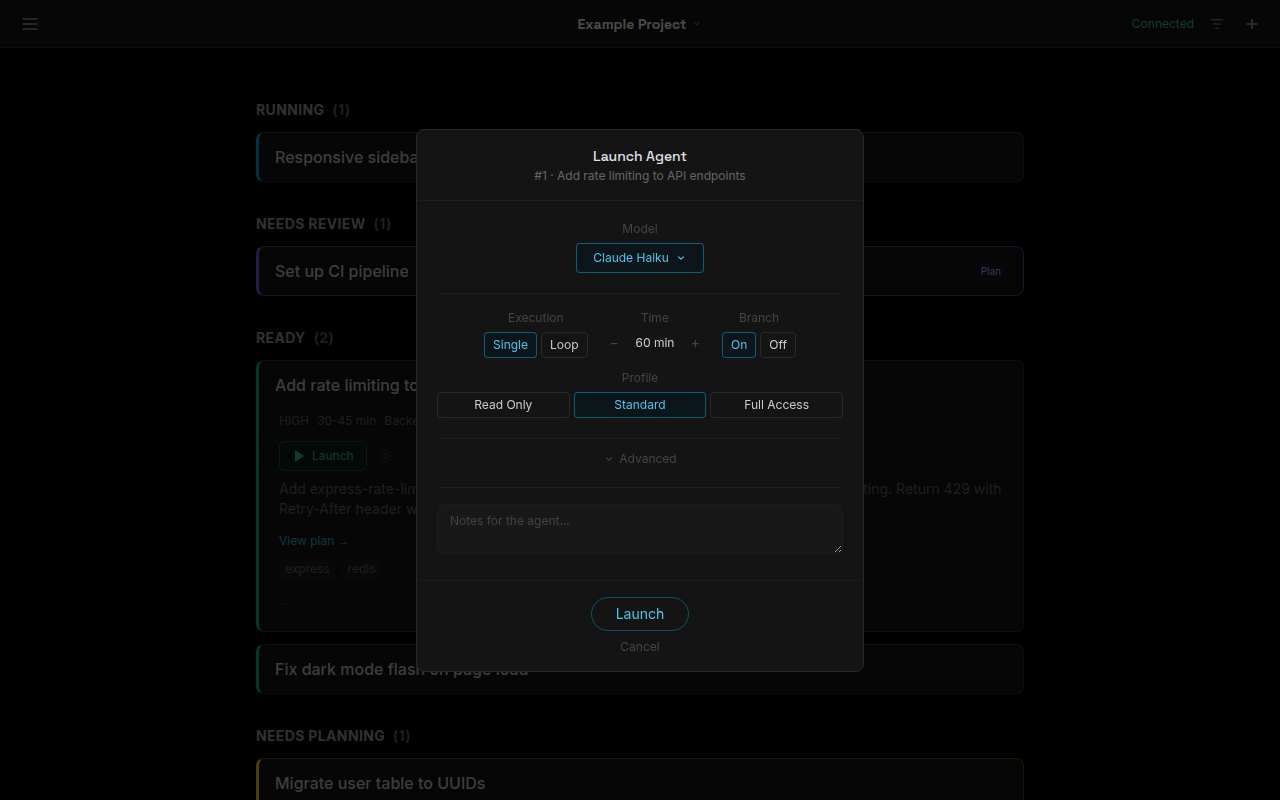
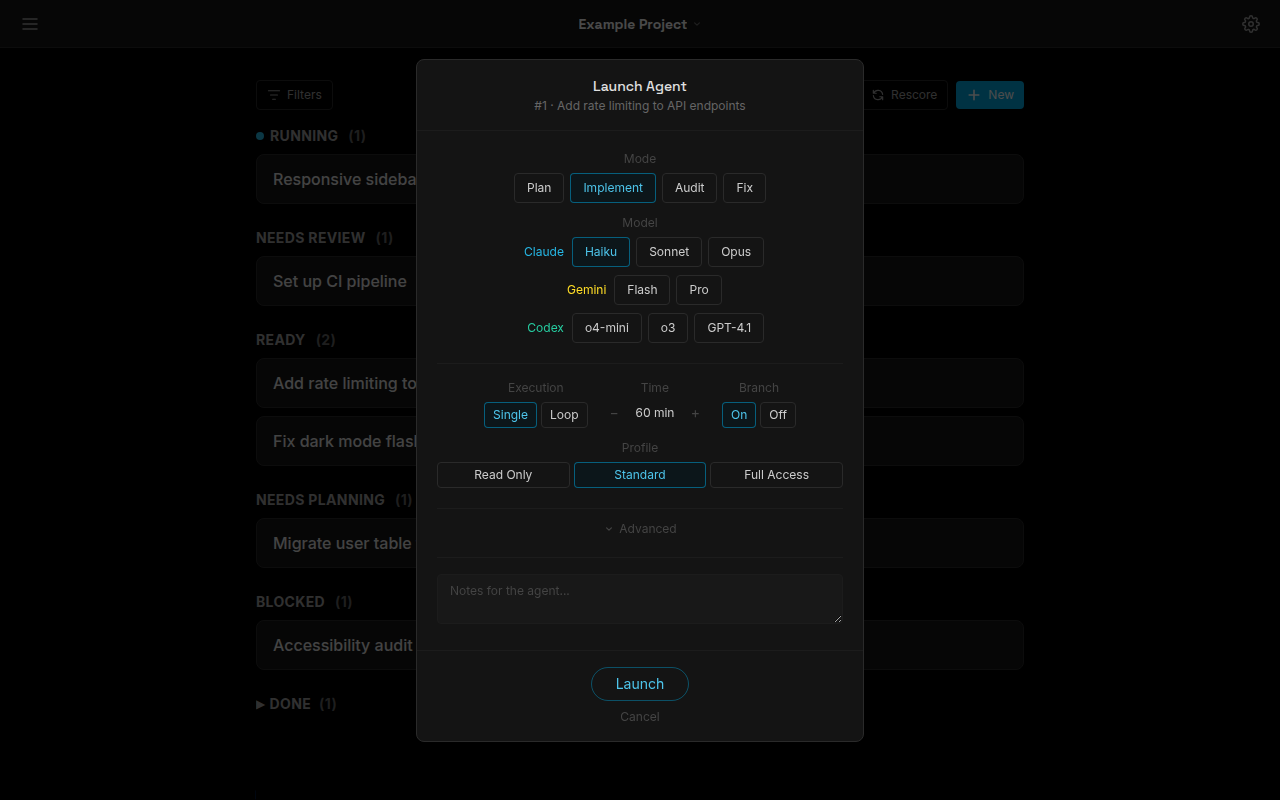
docs: refresh screenshots to the v2 calm-redesign UI
Replace the v1 task-board and spawn-dialog images with the current UI, and swap the obsolete agent-panel view for the composable prompt-library editor. Captured against the bundled example project.

diff --git a/README.md b/README.md
@@ -4,9 +4,9 @@ A web dashboard for orchestrating headless AI coding agents. Spawn, monitor, and
 
 Built as a personal tool for managing concurrent AI agents across multiple projects — designed for developers who run headless CLI agents and need visibility into what they're doing.
 
-![Task Board](docs/screenshots/task-board.png)
-![Spawn Dialog](docs/screenshots/spawn-dialog.png)
-![Agent Panel](docs/screenshots/agent-panel.png)
+![Task board — markdown todo files parsed into a bucketed board](docs/screenshots/task-board.png)
+![Launch Agent — spawn dialog with provider, model, run mode, and permission profile](docs/screenshots/spawn-dialog.png)
+![Composable prompt library — editable base templates per run mode](docs/screenshots/prompt-library.png)
 
 ## Why I Built This
 